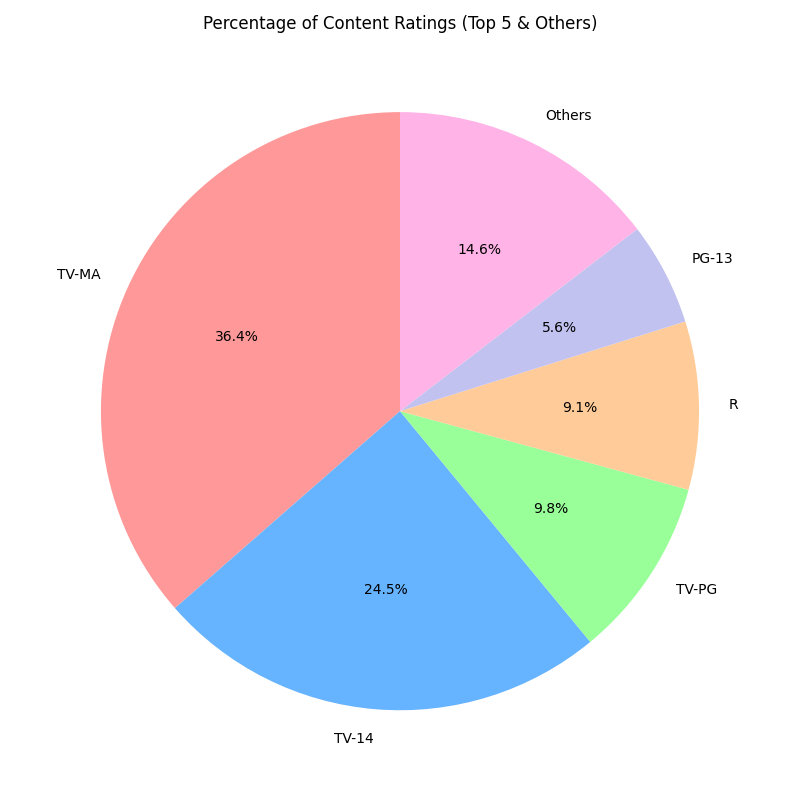
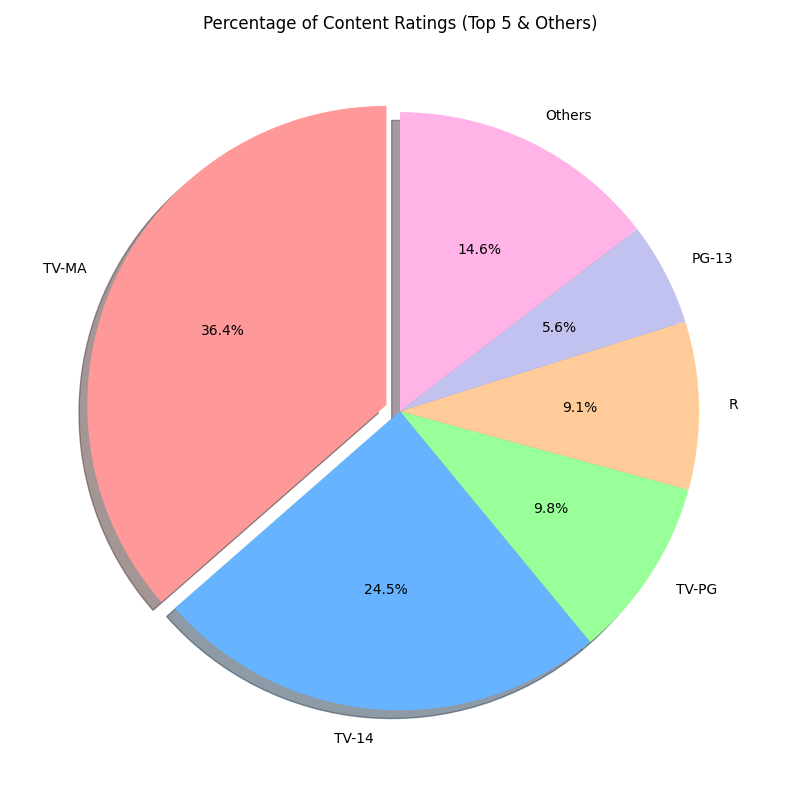
Add files via upload

Changed region(s): [[0.0625, 0.125, 0.6875, 0.9062], [0.25, 0.4062, 0.3125, 0.4375], [0.6875, 0.8125, 0.7188, 0.8438]]

diff --git a/Netflix_EDA_Project/src/data_clean_and_eda.py b/Netflix_EDA_Project/src/data_clean_and_eda.py
@@ -127,7 +127,8 @@ others_count =  rating_counts.iloc[5:].sum()
 final_ratings = top_5.copy()
 final_ratings['Others'] = others_count 
 plt.figure(figsize = (8,8))
-plt.pie(final_ratings.values, labels = final_ratings.index, colors = ['#ff9999','#66b3ff','#99ff99','#ffcc99','#c2c2f0','#ffb3e6'], autopct= '%1.1f%%', startangle= 90)
+my_explode = [0.05, 0, 0, 0, 0, 0]
+plt.pie(final_ratings.values, labels = final_ratings.index, colors = ['#ff9999','#66b3ff','#99ff99','#ffcc99','#c2c2f0','#ffb3e6'], autopct= '%1.1f%%', startangle= 90, explode=my_explode, shadow = True)
 plt.title('Percentage of Content Ratings (Top 5 & Others)')
 plt.tight_layout()
 plt.savefig('Content ratings pie.png')
